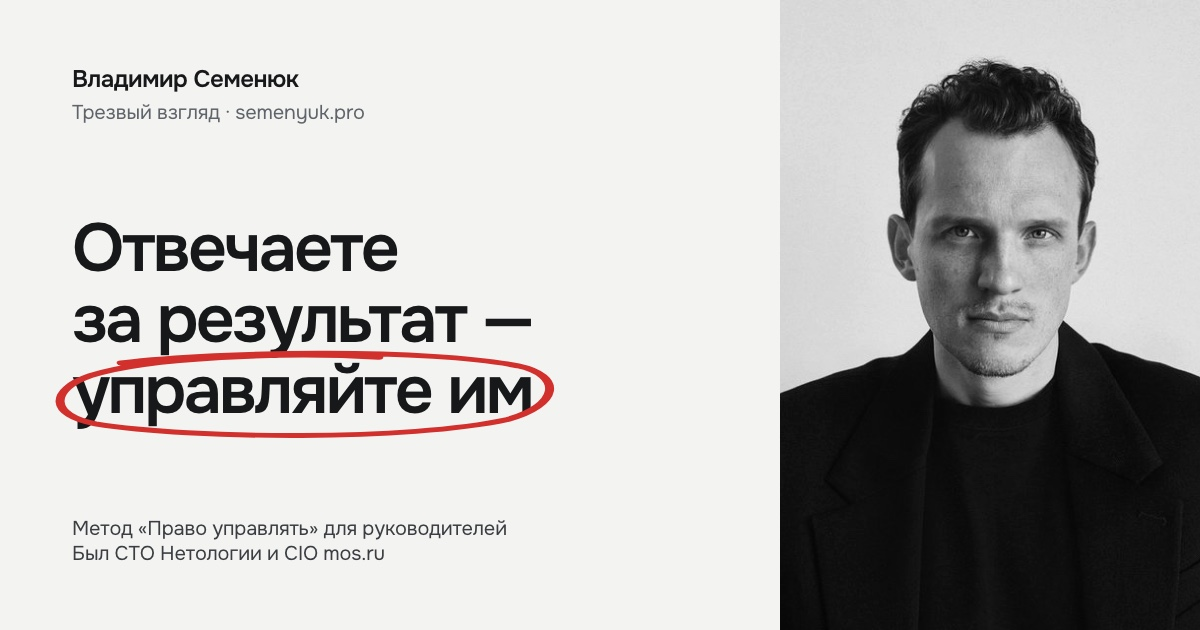
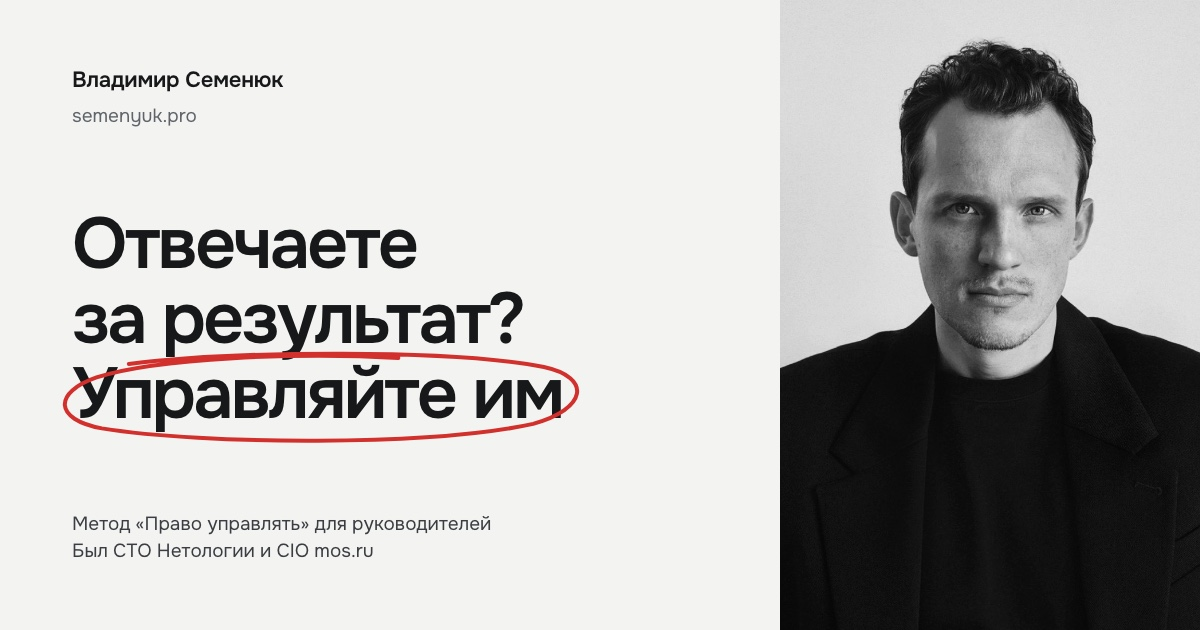
Сайт: обложка для ссылок без подписи, 1500+ часов в CV и one-pager
- og-cover.jpg пересобран из нового исходника og-cover.html: заголовок
  как на сайте, вместо «Трезвый взгляд» только semenyuk.pro
- README сайта: как пересобрать обложку
- CV для акселераторов и mentoring-one-page: 1500+ часов

diff --git a/README.md b/README.md
@@ -13,7 +13,8 @@ visibility: private
 ## Состав
 
 - `index.html` — вся страница: разметка и стили в одном файле, немного JS для шапки и маркерных пометок.
-- `assets/img/og-cover.jpg` — обложка для ссылок, 1200×630.
+- `assets/img/og-cover.jpg` — обложка для ссылок, 1200×630; исходник — [`../og-cover.html`](../og-cover.html). Пересборка из папки `website/`:
+  `"/Applications/Google Chrome.app/Contents/MacOS/Google Chrome" --headless=new --hide-scrollbars --force-device-scale-factor=1 --window-size=1200,630 --virtual-time-budget=5000 --screenshot=og.png "file://$PWD/og-cover.html"`, затем `sips -s format jpeg -s formatOptions 88 og.png --out site/assets/img/og-cover.jpg`.
 - `favicon.ico`, `site.webmanifest`, `assets/icons/` — фавикон «ВС» (Montserrat SemiBold, белое на #121212), иконки 32, 180, 192, 512.
 - `assets/img/vladimir-semenyuk.jpg` — чёрно-белый портрет 880×1100 (из `Talks/2026-11-12-upskill-week/img/me.jpeg`).
 - `assets/img/reviews/` — фото авторов отзывов (вырезаны из скриншота, 124×124; заменить исходниками).
